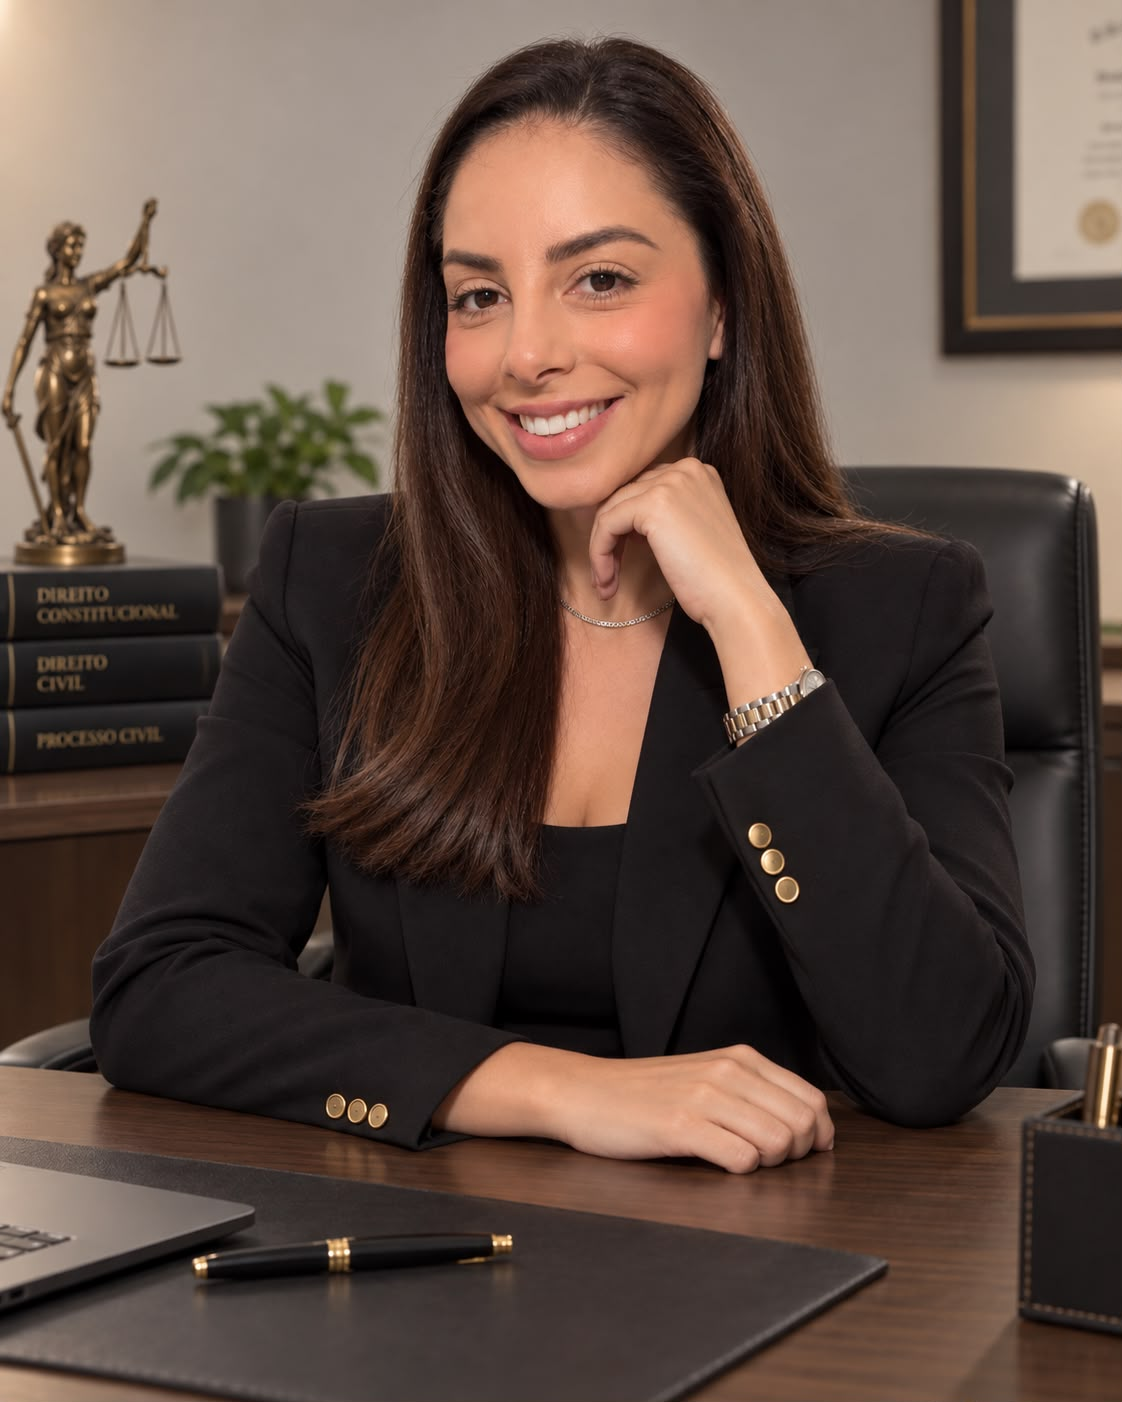
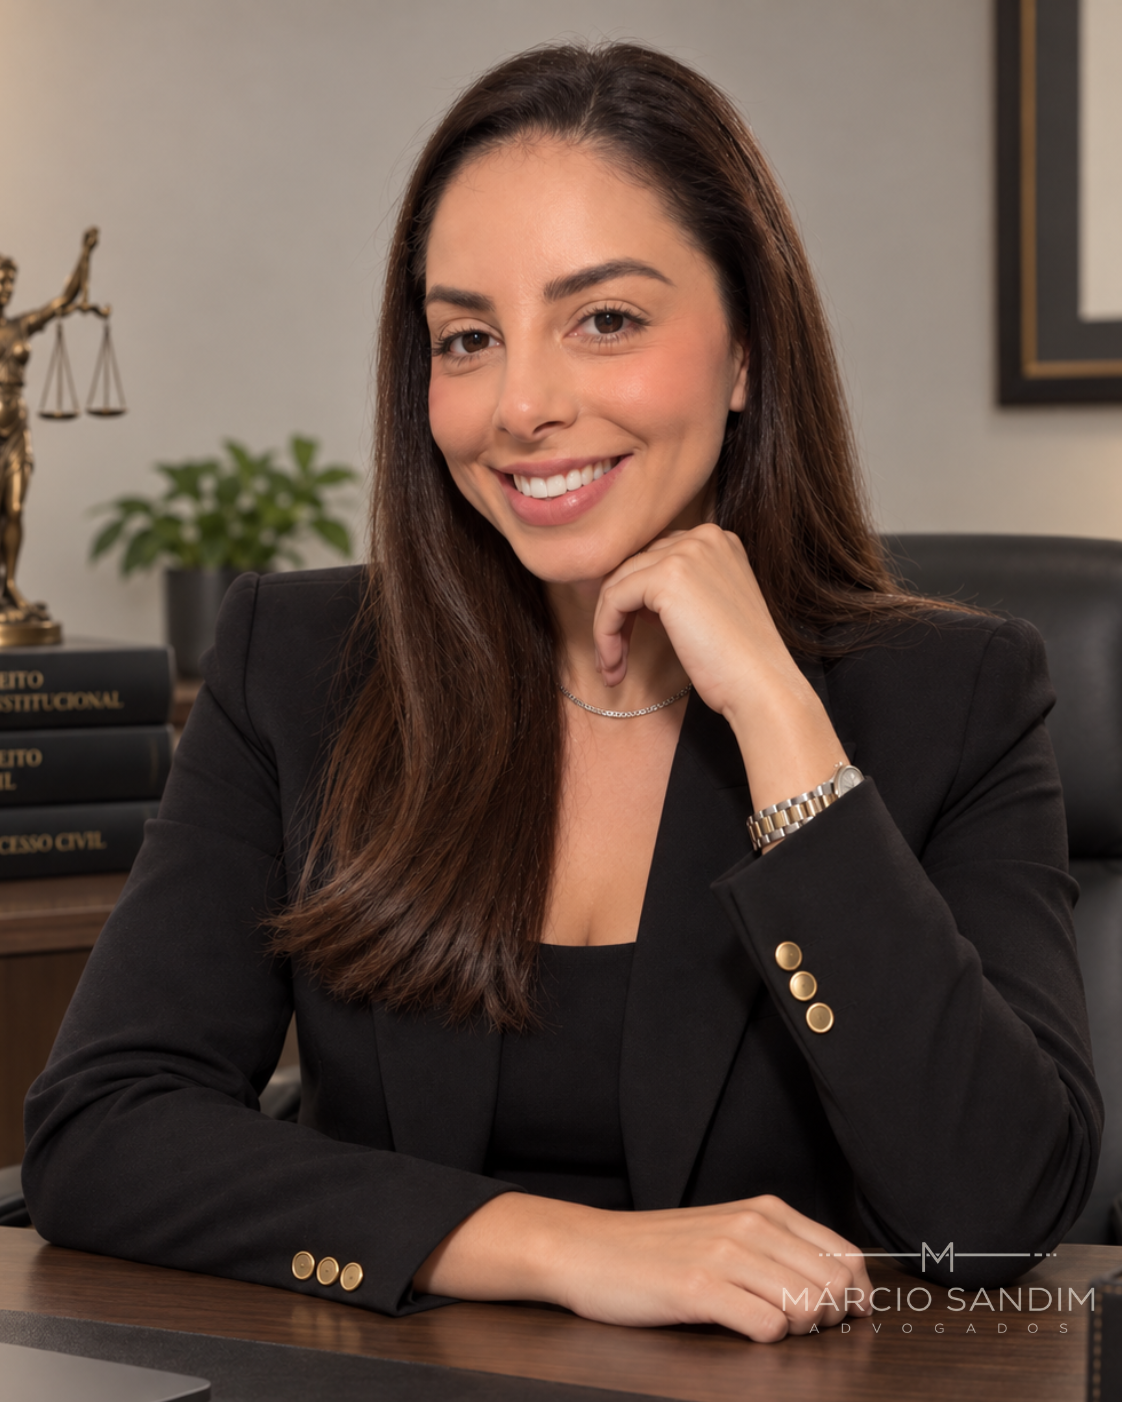
feat: atualizar logotipo institucional oficial no cabecalho e rodape

diff --git a/css/styles.css b/css/styles.css
@@ -218,73 +218,50 @@ h1, h2, h3, h4 {
   flex-wrap: nowrap;
 }
 
-/* Logotipo */
+/* Logotipo Institucional */
 .brand-logo {
-  display: flex;
+  display: inline-flex;
   align-items: center;
-  gap: 12px;
   flex-shrink: 0;
+  text-decoration: none;
 }
 
-.brand-monogram {
-  width: 38px;
-  height: 38px;
-  border: 1px solid var(--color-champagne);
-  border-radius: var(--radius-xs);
-  display: flex;
-  align-items: center;
-  justify-content: center;
-  position: relative;
-  background-color: rgba(198, 180, 154, 0.07);
-  flex-shrink: 0;
-  transition: border-color var(--transition-fast), background-color var(--transition-fast), transform var(--transition-fast);
+.brand-logo-img {
+  height: 46px;
+  width: auto;
+  display: block;
+  object-fit: contain;
+  transition: transform var(--transition-fast), opacity var(--transition-fast);
 }
 
-.brand-logo:hover .brand-monogram {
-  border-color: #FFFFFF;
-  background-color: rgba(198, 180, 154, 0.15);
+.brand-logo:hover .brand-logo-img {
   transform: translateY(-1px);
 }
 
-.brand-monogram span {
-  font-family: var(--font-serif);
-  font-size: 22px;
-  font-weight: 400;
-  color: var(--color-champagne);
-  line-height: 1;
-  transition: color var(--transition-fast);
+/* Alternância inteligente de logo por tema */
+.brand-logo-dark {
+  display: none !important;
 }
 
-.brand-logo:hover .brand-monogram span {
-  color: #FFFFFF;
+.brand-logo-white {
+  display: block !important;
 }
 
-.brand-text {
-  display: flex;
-  flex-direction: column;
+[data-theme="light"] .site-header .brand-logo-white {
+  display: none !important;
 }
 
-.brand-name {
-  font-family: var(--font-serif);
-  font-size: 1.05rem;
-  letter-spacing: 0.12em;
-  font-weight: 400;
-  color: #FFFFFF;
-  line-height: 1.15;
-  text-transform: uppercase;
-  white-space: nowrap;
-  transition: color var(--transition-fast);
+[data-theme="light"] .site-header .brand-logo-dark {
+  display: block !important;
 }
 
-.brand-subtitle {
-  font-family: var(--font-sans);
-  font-size: 0.75rem;
-  letter-spacing: 0.2em;
-  color: var(--color-champagne);
-  text-transform: uppercase;
-  font-weight: 500;
-  margin-top: 1px;
-  white-space: nowrap;
+.site-footer .brand-logo-white {
+  display: block !important;
+  height: 50px;
+}
+
+.site-footer .brand-logo-dark {
+  display: none !important;
 }
 
 /* Menu de Navegação Desktop */

diff --git a/index.html b/index.html
@@ -53,13 +53,8 @@
   <header class="site-header" id="siteHeader">
     <div class="container header-container">
       <a href="#hero" class="brand-logo" aria-label="Márcio Sandim Advogados">
-        <div class="brand-monogram">
-          <span>M</span>
-        </div>
-        <div class="brand-text">
-          <span class="brand-name">Márcio Sandim</span>
-          <span class="brand-subtitle">Advogados</span>
-        </div>
+        <img src="assets/images/marcio-sandim-logo-white.png" alt="Márcio Sandim Advogados" class="brand-logo-img brand-logo-white" width="140" height="47">
+        <img src="assets/images/marcio-sandim-logo-dark.png" alt="Márcio Sandim Advogados" class="brand-logo-img brand-logo-dark" width="140" height="47">
       </a>
 
       <!-- Menu Desktop -->
@@ -620,13 +615,7 @@
       <div class="footer-grid">
         <div class="footer-col">
           <div class="brand-logo" style="margin-bottom: 16px;">
-            <div class="brand-monogram">
-              <span>M</span>
-            </div>
-            <div class="brand-text">
-              <span class="brand-name">Márcio Sandim</span>
-              <span class="brand-subtitle">Advogados</span>
-            </div>
+            <img src="assets/images/marcio-sandim-logo-white.png" alt="Márcio Sandim Advogados" class="brand-logo-img brand-logo-white" width="160" height="54" loading="lazy">
           </div>
           <p style="color: var(--text-light-muted); line-height: 1.6; max-width: 320px; margin-bottom: 16px;">
             Banca de advocacia multidisciplinar sediada em Campo Grande/MS, pautada pela excelência técnica, ética e solidez estratégica perante todas as instâncias do Judiciário.
